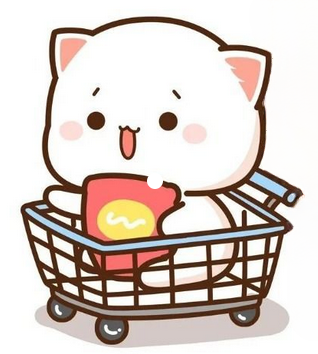
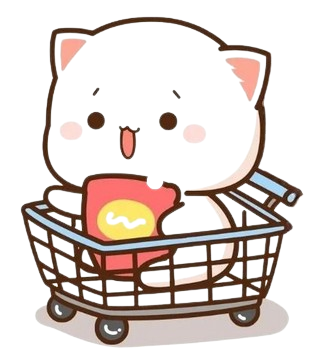
add new cat image without background, add styling to body and html

diff --git a/index.css b/index.css
@@ -1,4 +1,7 @@
 html, body {
     margin: 0;
     padding: 0;
+    font-family: 'Rubik', sans-serif;
+    background-color: #EEF0F4;
+
 }
